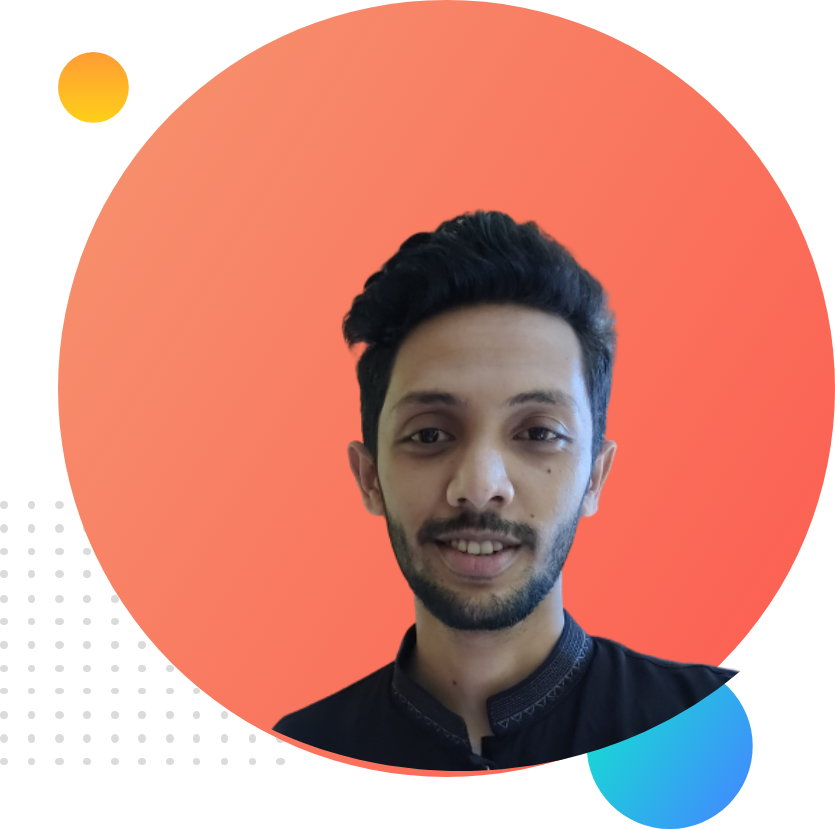
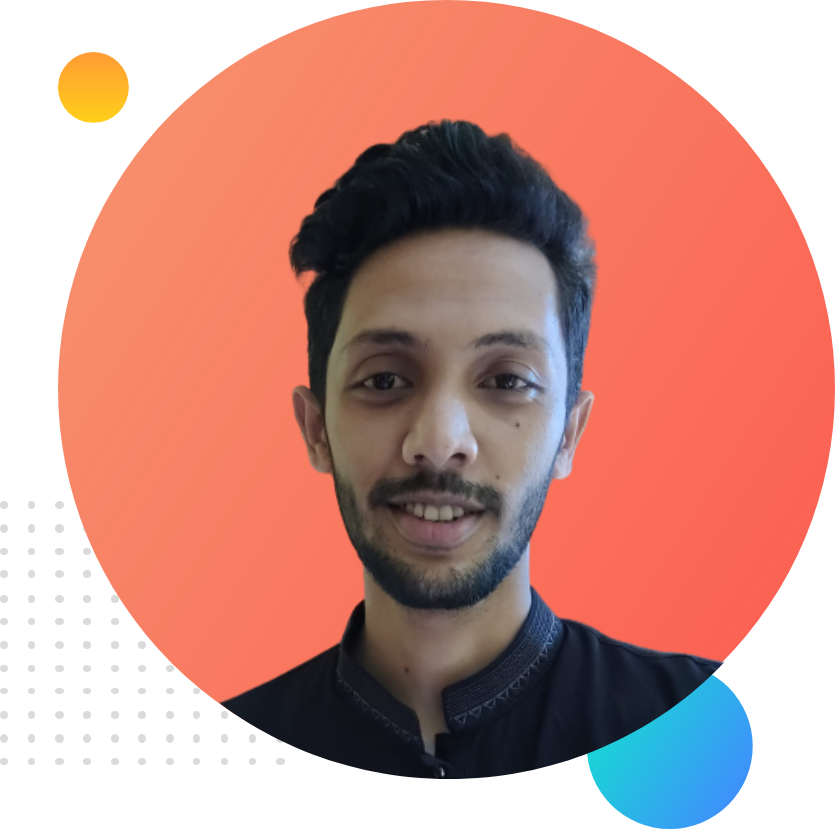
Project finalised

Changed region(s): [[0.2491, 0.1206, 0.8719, 0.965], [0.7162, 0.8745, 0.7784, 0.9047]]

diff --git a/index.html b/index.html
@@ -35,7 +35,7 @@
         <p>Scroll Down to explore more about me</p>
       </div>
       <div class="half-width">
-        <img src="images/person/my-bg2.png" alt="" />
+        <img src="images/person/my-bg.png" alt="" />
 
       </div>
     </section>
@@ -129,7 +129,7 @@
   
         <div class="half-width">
           <h3>Cash Cash Application</h3>
-          <p> I did a Javascript Course before where i learn to make this application <br> this application helps you to do basic money transaction like Bkash, Nagad Etc <br> <b>Features</b>  :<ul> <li>Send Money</li> <li>Request For Loan</li> <li>Closing Account</li> <li> Watch Recent transactions </li> <li>Sorting the transaction</li></ul></p>
+          <p>  This application helps you to do basic money transaction like Bkash, Nagad Etc <br> <b>Features</b>  :<ul> <li>Send Money</li> <li>Request For Loan</li> <li>Closing Account</li> <li> Watch Recent transactions </li> <li>Sorting the transaction</li></ul></p>
           <a class="btn"
           href="https://monzuralam16.github.io/cashcash_app/"> See Project</a>
         </div>
@@ -142,7 +142,11 @@
     
           <div class="half-width">
             <h3>Pig -Game</h3>
-            <p> I did a Javascript Course before where i learn to make this application <br> this application helps you to do basic money transaction like Bkash, Nagad Etc <br> <b>Features</b>  :<ul> <li>Send Money</li> <li>Request For Loan</li> <li>Closing Account</li> <li> Watch Recent transactions </li> <li>Sorting the transaction</li></ul></p>
+            <p> This game is based on DOM manupulation using Javascript <br>
+              Players take turns to roll a single dice as many times as they wish, adding all roll results to a running total, but losing their gained score for the turn if they roll a 1. <br> Each turn, a player repeatedly rolls a die until either a 1 is rolled or the player decides to "hold":
+
+              
+              </p>
             <a class="btn"
             href="https://monzuralam16.github.io/pig-game/"> Play</a>
           </div>
